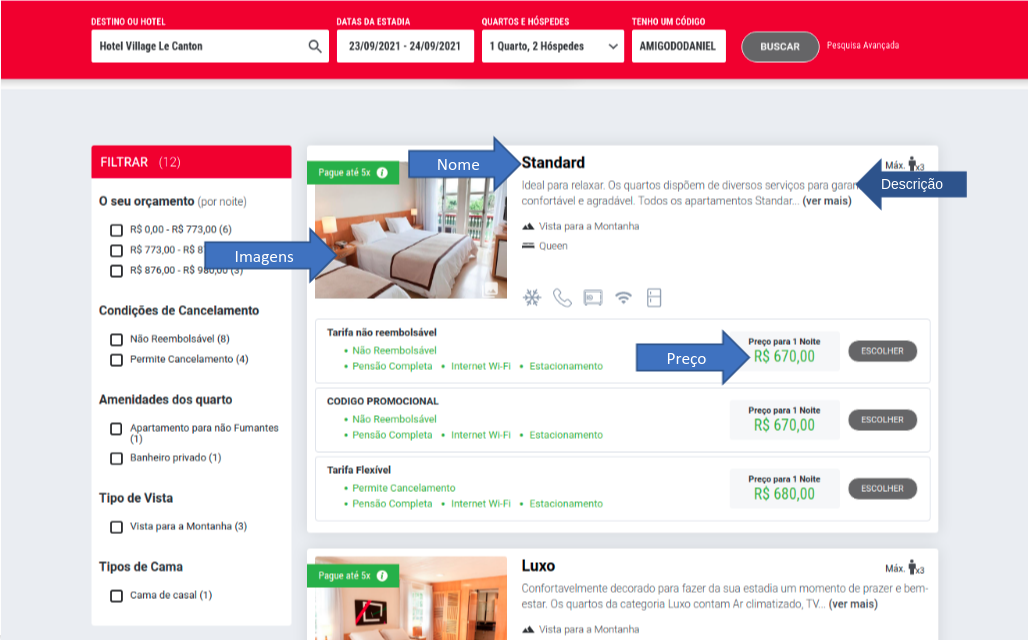
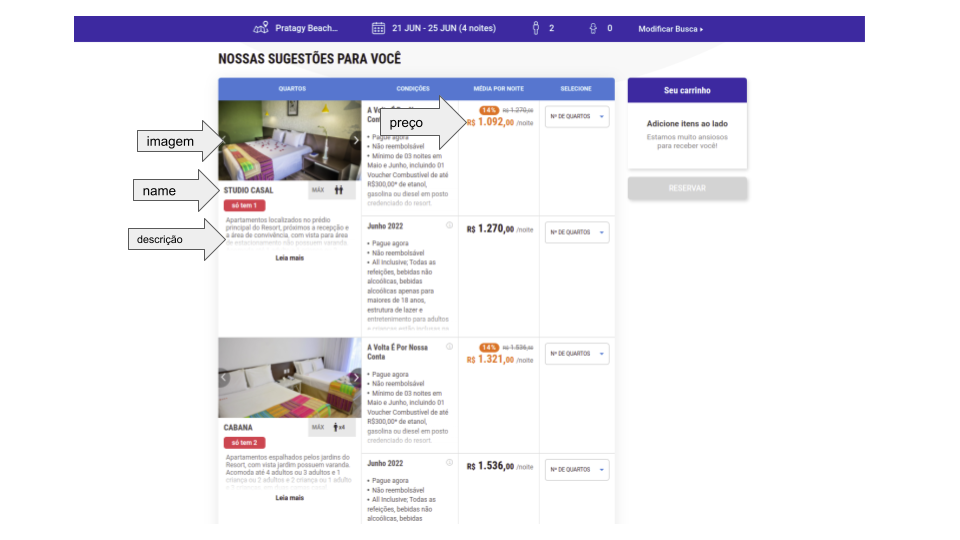
changing booking engine

diff --git a/README.md b/README.md
@@ -49,16 +49,16 @@ The necessary information for the crawler is under the [Assets](#assets) session
         
         <pre>
         [{
-            "name": "Standard Room",
-            "description": "Ideal for relaxing. The rooms...", 
-            "price": "R$ 715,00",
-            "image": "https://myreservations.omnibees.com/Handlers/ImageLoader.ashx?sz=250x166&imageID=189952.jpg",
+            "name": "STUDIO CASAL",
+            "description": "Apartamentos localizados no prédio principal do Resort, próximos a recepção e a área de convivência, com vista para área de estacionamento não possuem varanda. Acomoda até 1 adulto e 1 criança ou 2 adultos", 
+            "price": "R$ 1.092,00",
+            "image": "https://letsimage.s3.amazonaws.com/letsbook/193/quartos/30/fotoprincipal.jpg"
         },
         {
-            "name": "Master",
-            "description": "There are 6 luxurious rooms...", 
-            "price": "R$ 1.115,30",
-            "image": "https://myreservations.omnibees.com/Handlers/ImageLoader.ashx?sz=250x166&imageID=192355.jpg",
+            "name": "CABANA",
+            "description": "Apartamentos espalhados pelos jardins do Resort, com vista jardim possuem varanda. Acomoda até 4 adultos ou 3 adultos e 1 criança ou 2 adultos e 2 criança ou 1 adulto e 3 crianças, em duas camas casal.", 
+            "price": "R$ 1.321,00",
+            "image": "https://letsimage.s3.amazonaws.com/letsbook/193/quartos/32/fotoprincipal.jpg"
         }]
         </pre>
         
@@ -84,7 +84,7 @@ Default port is set to `8080`
 
 ## Assets
 * Crawl URL sample (change dates): 
-<pre>https://book.omnibees.com/hotelresults?CheckIn=23092021&CheckOut=24092021&Code=AMIGODODANIEL&NRooms=1&_askSI=d34b1c89-78d2-45f3-81ac-4af2c3edb220&ad=2&ag=-&c=2983&ch=0&diff=false&group_code=&lang=pt-BR&loyality_card=&utm_source=asksuite&q=5462#show-more-hotel-button</pre>
+<pre>https://pratagy.letsbook.com.br/D/Reserva?checkin=21%2F06%2F2022&checkout=25%2F06%2F2022&cidade=&hotel=12&adultos=2&criancas=&destino=Pratagy+Beach+Resort+All+Inclusive&promocode=&tarifa=&mesCalendario=6%2F14%2F2022</pre>
 * Help images:
 ![sample_1](assets/sample_1.png)
 
